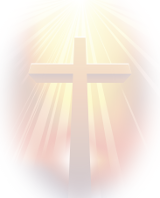
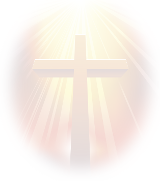
IE fixes

diff --git a/public/js/layout/nav.js b/public/js/layout/nav.js
@@ -12,6 +12,11 @@ var layout_nav = {
     timerId:null,
 
     /**
+     * Flag that is set when the user's mouse is hoverring over a menu item. 
+     */
+    mouseHover:false,
+
+    /**
      * Initializes the top nav with controlling logic. 
      */
     initialize:function()
@@ -21,23 +26,39 @@ var layout_nav = {
             function(index, element)
             {
                 $(element).mouseover(layout_nav.selectTopItem);
+                $(element).hover(
+                    function(event) {layout_nav.mouseHover = true},
+                    function(event) {layout_nav.mouseHover = false}
+                );
             }
         );
 
         // Set mouseover observers on each sub menu item.
         // Fix submenu widths.
+        $('nav dd,nav dl,nav dt').filter(
+            function() {return $(this).css('display') == 'none'}
+        ).each(
+            function() {$(this).show().addClass('navHidden');}
+        );
+
         var widths = [];
         $('nav dt').each(
             function(index, element)
             {
-                $(element).mouseover(layout_nav.selectSubItem);
+                $(element).hover(
+                    function(event) {
+                        layout_nav.selectSubItem(event);
+                        layout_nav.mouseHover = true;
+                    },
+                    function(event) {
+                        layout_nav.mouseHover = false;
+                    }
+                );
 
                 var parent = $(element).parent(),
                     parentId = parent.attr('id');
 
                 if (!(parentId in widths)) widths[parentId] = 0;
-
-                parent.show().css('visibility','hidden');
                 
                 if (widths[parentId] < $(element).width()) {
                     widths[parentId] = $(element).width();
@@ -46,21 +67,17 @@ var layout_nav = {
             }
         );
 
-        // Remove added visibility tags from submenu width fix.
-        $('nav dt').parent().hide().css('visibility', '');
+        $('.navHidden').each(
+            function() {$(this).hide().removeClass('navHidden')}
+        );
 
         // Set observer to focus away from the menu when clicked away from.
         $(document).click(
             function() {
-                $('nav *').each(
-                    function(index, element)
-                    {
-                        if (!$(element).is(':hover')) {
-                            window.clearTimeout(layout_nav.timerId); 
-                            layout_nav.unselectAll();
-                        }
-                    }
-                );
+                if (!layout_nav.mouseHover) {
+                    window.clearTimeout(layout_nav.timerId); 
+                    layout_nav.unselectAll();
+                }
             } 
         );
     },
@@ -74,20 +91,12 @@ var layout_nav = {
         window.clearTimeout(layout_nav.timerId); 
         layout_nav.timerId = window.setTimeout(
             function() {
-                var unselectAll = true;
-                $('nav *').each(
-                    function(index, element)
-                    {
-                        if ($(element).is(':hover')) {
-                            layout_nav.initTimer();
-                            unselectAll = false;
-                        }
-                    }
-                );
-
-                if (unselectAll) {
-                    layout_nav.unselectAll();
+                if (layout_nav.mouseHover) {
+                    layout_nav.initTimer();
+                    return;
                 }
+
+                layout_nav.unselectAll();
             },
             3000
         );
@@ -102,10 +111,15 @@ var layout_nav = {
         $('.navTopItemSelect').parent().find('dl').each(
             function()
             {
+                if ($(this).parent().is('dd')) {
+                    $(this).parent().fadeOut(150);
+                    return;
+                }
+
                 $(this).fadeOut(150);
             }
         );
-        
+
         // Unselect sub-menu items.
         $('.navSelectItem').each(
             function()
@@ -165,7 +179,7 @@ var layout_nav = {
             function()
             {
                 if (submenu == null || submenu.attr('id') != this.id) {
-                    $(this).fadeOut(150);
+                    $(this).parent().fadeOut(150);
                 }
             }
         );
@@ -184,8 +198,8 @@ var layout_nav = {
         target.children('div').first().addClass('navSelectItem');
 
         // Display the associated sub menu (if one exists).
-        if (submenu != null && !submenu.is(':visible')) {
-            submenu.fadeIn(150);
+        if (submenu != null && !submenu.parent().is(':visible')) {
+            submenu.parent().fadeIn(150);
         }
     }
 }

diff --git a/public/css/master.css b/public/css/master.css
@@ -3,11 +3,14 @@ html, body {
     padding: 0;
     height: 100%;
     width: 100%;
-    background: #a0a6ca  url('/images/layout/background.jpg') fixed no-repeat center;
-    background-size: 96% 100%;
     font-family: Arial, Helvetica, sans-serif;
     min-width: 785px;
     font-size: 13px;
+}
+
+body {
+    background: #a0a6ca  url('/images/layout/background.jpg') fixed no-repeat center;
+    background-size: 96% 100%;
 }
 
 h1 {
@@ -23,8 +26,8 @@ h2 {
 }
 
 h1, h2, h3 {color: #404d91}
-
 a {text-decoration:none}
+img {border:0}
 
 /********************
  * Navigation
@@ -45,10 +48,13 @@ nav {
 }
 
 nav div{
+    width: 0; /* Dumb IE6 Hack. IE6 sets floated width to 100% */
     float: left;
+    white-space: nowrap;
 }
 
-nav a {text-decoration: none}
+/* Fix dub ie6 hack above for other browsers */
+nav>div{width: auto}
 
 .navTopItem {
     line-height: 20px;
@@ -91,7 +97,6 @@ nav dt div a, nav dt div span {
     white-space: nowrap;
     color: #404d91;
     padding-left: 5px;
-    text-decoration: none;
 }
 
 /** Ensure that the ensure menu item acts as a link and not just around the text (includes white space) **/
@@ -126,7 +131,7 @@ nav dd {
     float: right;
 }
 
-
+.navHidden{visibility:hidden}
 /********************
  * Navigation End
  *******************/
@@ -141,6 +146,7 @@ nav dd {
     position: relative;
     z-index: 2;
     top: -10px;
+    height: 100%;
 }
 .content {padding: 0 10px}
 
@@ -165,17 +171,18 @@ footer {
 }
 
 .layoutBackground {
+    height: 100%;
     top: 100px;
     background-color: #f4f5f9;
     border: 2px solid #d2d8f7;
-    opacity:0.8;
-    filter:alpha(opacity:0.8);
     position: absolute;
     border: #9ca2c6 solid 1px;
     -moz-border-radius: 7px;
     -webkit-border-radius: 7px;
-    border-radius: 7px; /* future proofing */
-    -khtml-border-radius: 7px; /* for old Konqueror browsers */
+    border-radius: 7px;
+    -khtml-border-radius: 7px;
+    opacity:0.8;
+    filter:alpha(opacity:80);
     z-index: 0;
 }
 
@@ -251,7 +258,6 @@ footer {
 }
 #slides a {
     margin-left: 10px;
-    text-decoration: none;
     color: #404D91;
     font-weight: bold;
 }
@@ -265,6 +271,8 @@ footer {
     -khtml-border-radius: 6px;
 }
 .slides_container img {
+    width: 260px;
+    height: 200px;
     -moz-border-radius: 5px;
     -webkit-border-radius: 5px;
     border-radius: 5px; 

diff --git a/public/css/index/index.css b/public/css/index/index.css
@@ -1,6 +1,6 @@
 .columnA {
+    left: 0;
     position: absolute;
-    width: 160px;
     margin-left: 5px;
 }
 .columnB {
@@ -24,13 +24,14 @@
     padding: 15px 5px 5px 5px;
     border: 1px solid #6E7CC4; /* Fallback if box-shadow not supported */
     background-color: #F4F5F9;
+    width: 145px;
 }
 
 .keepInTouch, .contact {margin-top: 23px}
 
 .worshipTime {
     margin-top: 15px;
-    background-image: url('/images/index/index/worship_time/background.png');
+    background-image: url('/images/index/index/worship_time/background.jpg');
     background-repeat: no-repeat;
     background-position: center;
 }

diff --git a/public/css/index/index/event.css b/public/css/index/index/event.css
@@ -11,6 +11,7 @@
 }
 
 .events {
+    width: 145px;
     text-align: center;
     position: relative;
     -moz-border-radius: 6px;

diff --git a/public/css/index/index/news.css b/public/css/index/index/news.css
@@ -32,4 +32,4 @@
     margin: 6px 0 8px 0
 }
 
-.news { clear:right;}
+.news {clear:right}

diff --git a/application/Plugin/Client.php b/application/Plugin/Client.php
@@ -25,8 +25,14 @@ class Client extends \Zend_Controller_Plugin_Abstract
         $view->headScript()->appendFile('/js/jquery.js');
         $view->headScript()->appendFile('/js/layout/nav.js');
         $view->headScript()->appendFile('/js/layout/display.js');
-        $view->headLink()->appendStylesheet('/css/master.css');
 
+        // @todo IE6 displays conditional tags. Look into this further.
+        //$view->headScript()->appendFile('/js/ie_png_fix.js', 'text/javascript', array('conditional' => 'lt IE7'));
+        //$view->headScript()->appendFile('/js/ie_html5_fix.js', 'text/javascript', array('conditional' => 'lt IE9'));
+        //$view->headLink()->appendStylesheet('/css/master_ie6.css', 'screen', 'lt IE7');
+
+        $view->headLink()->appendStylesheet('/css/master.css');
+        
         $navigation = new \Zend_Navigation(
             new \Zend_Config_Xml(
                 APPLICATION_PATH . '/configs/navigation.xml', 'nav'
